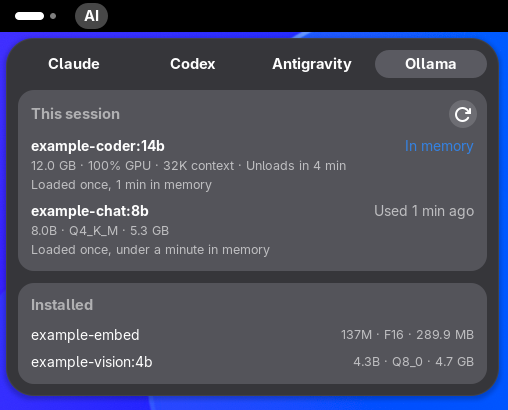
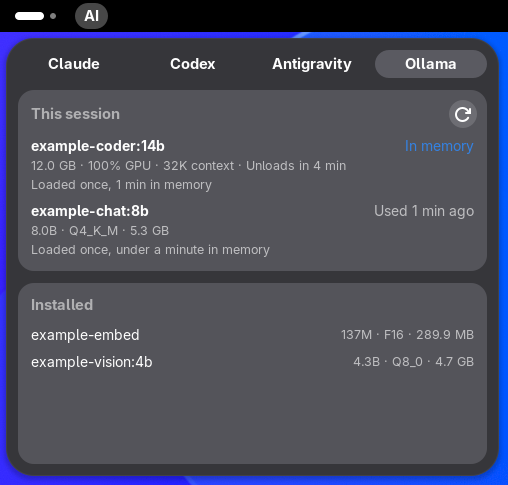
Every card in a tab as tall as the tallest (#232) (#233)
The cards' box is homogeneous and each card expands to fill its share,
rows at the top. The published pop-up screenshots are retaken, with the
taller crop.

diff --git a/src/lib/indicator.js b/src/lib/indicator.js
@@ -74,6 +74,8 @@ class UsageIndicator extends PanelMenu.Button {
         // Also a .message-list, for themes (Blur My Shell's) that draw a notification
         // card apart from the menu only inside the notification list.
         this._section.box.add_style_class_name('ai-usage-cards message-list');
+        // Every card in a tab as tall as the tallest.
+        this._section.box.layout_manager.homogeneous = true;
         this.menu.addMenuItem(this._tabsItem);
         this.menu.addMenuItem(this._section);
 
@@ -241,6 +243,8 @@ function cardItem(title, plan, refresh, children) {
         can_focus: false,
         style_class: 'message ai-usage-card',
     });
+    // The menu item centres itself in the box's equal share unless it expands.
+    item.y_expand = true;
     const column = new St.BoxLayout({orientation: Clutter.Orientation.VERTICAL, x_expand: true});
 
     if (title || refresh) {

diff --git a/.claude/rules/popup.md b/.claude/rules/popup.md
@@ -30,6 +30,9 @@ paths:
   `Weekly` card, and Ollama's lists a `This session` and an `Installed` card. The item
   is sensitive but inert (`activate: false`, `hover: false`): St makes an insensitive
   one `:insensitive`, and `.message:insensitive` outranks `.message`, darkening it.
+* **Every card in a tab is as tall as the tallest** (the cards' box is `homogeneous`, each
+  card `y_expand`, which it needs to fill its share rather than centre in it), the rows
+  at the top.
 * **The cards sit 12px apart and 12px from the pop-up's edge**, the notification list's
   spacing, and the pop-up's corners are the message's 16px plus that gap, 28px, so they
   run concentric. The header-less card drops the theme's 12px above a message body that
